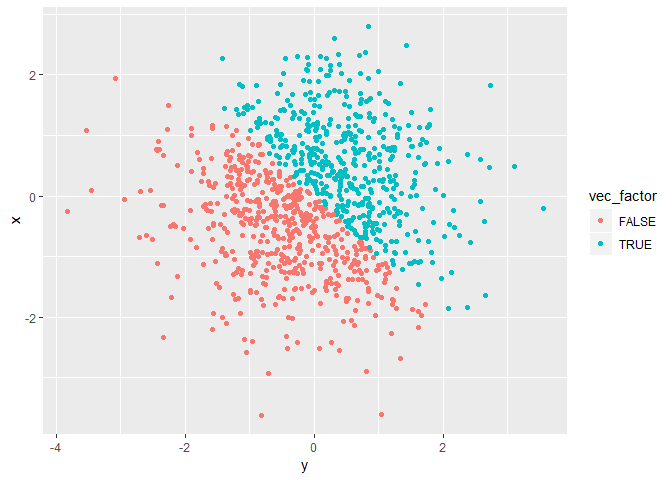
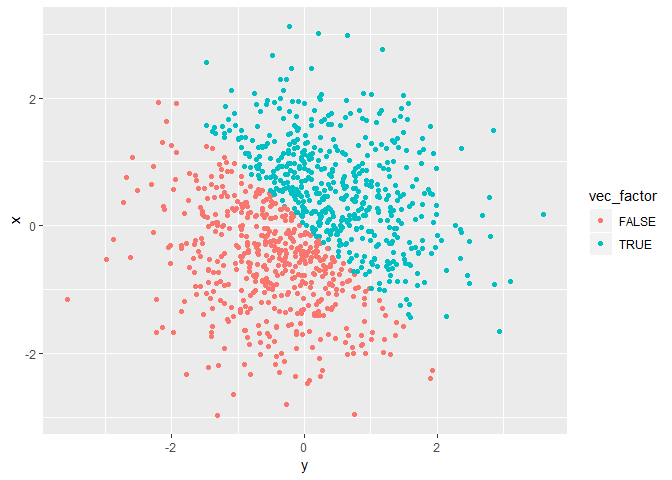
Named the 3 scatterplots

diff --git a/P8105_HW1_BJL2150.md b/P8105_HW1_BJL2150.md
@@ -29,11 +29,10 @@ Problem1_df = tibble(
 mean(Problem1_df$x)
 ```
 
-    ## [1] 2.343421
+    ## [1] 3.219754
 
 ``` r
-# This works because it is numeric variable. 
-#The mean of x equals 2.136482.
+# This works because it is numeric variable. The mean of x equals 2.136482.
 ```
 
 ``` r
@@ -42,7 +41,7 @@ mean(Problem1_df$x)
 mean(Problem1_df$vec_numeric)
 ```
 
-    ## [1] 0.6
+    ## [1] 0.8
 
 ``` r
 # Taking the mean of this equals 0.3. 
@@ -61,8 +60,7 @@ mean(Problem1_df$vec_char)
     ## [1] NA
 
 ``` r
-# This code does not work. 
-#Error message says that "this argument is not numeric or logical".
+# This code does not work. Error message says that "this argument is not numeric or logical".
 ```
 
 ``` r
@@ -180,13 +178,13 @@ vec_factor = as.factor(Problem2_df$vec_logical)
 mean(x)
 ```
 
-    ## [1] -0.03794764
+    ## [1] -0.04009163
 
 ``` r
 median(x)
 ```
 
-    ## [1] -0.05228466
+    ## [1] -0.004100366
 
 ``` r
 dim(x)
@@ -194,9 +192,9 @@ dim(x)
 
     ## NULL
 
-The mean of the x is -0.0379476.
+The mean of the x is -0.0400916.
 
-The median of the x is -0.0522847.
+The median of the x is -0.0041004.
 
 The dataset size is dim
 
@@ -206,19 +204,19 @@ Scatterplots
 ``` r
 # Making scatter plots for logical, numeric and factor vectors, respectively.
 
-ggplot(Problem2_df, aes(x = y, y = x)) + geom_point(aes(color = vec_logical))
+Logical = ggplot(Problem2_df, aes(x = y, y = x)) + geom_point(aes(color = vec_logical))
+
+# The blue data points on the scatterplot represent the values which are TRUE.
+# The pink data points represent those values that are FALSE.
+
+
+Numeric = ggplot(Problem2_df, aes(x = y, y = x)) + geom_point(aes(color = vec_numeric))
+
+# The blue data points represent values numeric values equal to 1.00.
+# The black data points represent numeric values that are equal to 0.00. 
+
+Factor = ggplot(Problem2_df, aes(x = y, y = x)) + geom_point(aes(color = vec_factor))
+
+# The blue data points represent factor variables that are TRUE.
+# The blue data points relect factor variables that are FALSE.
 ```
-
-![](P8105_HW1_BJL2150_files/figure-markdown_github/unnamed-chunk-10-1.png)
-
-``` r
-ggplot(Problem2_df, aes(x = y, y = x)) + geom_point(aes(color = vec_numeric))
-```
-
-![](P8105_HW1_BJL2150_files/figure-markdown_github/unnamed-chunk-10-2.png)
-
-``` r
-ggplot(Problem2_df, aes(x = y, y = x)) + geom_point(aes(color = vec_factor))
-```
-
-![](P8105_HW1_BJL2150_files/figure-markdown_github/unnamed-chunk-10-3.png)
